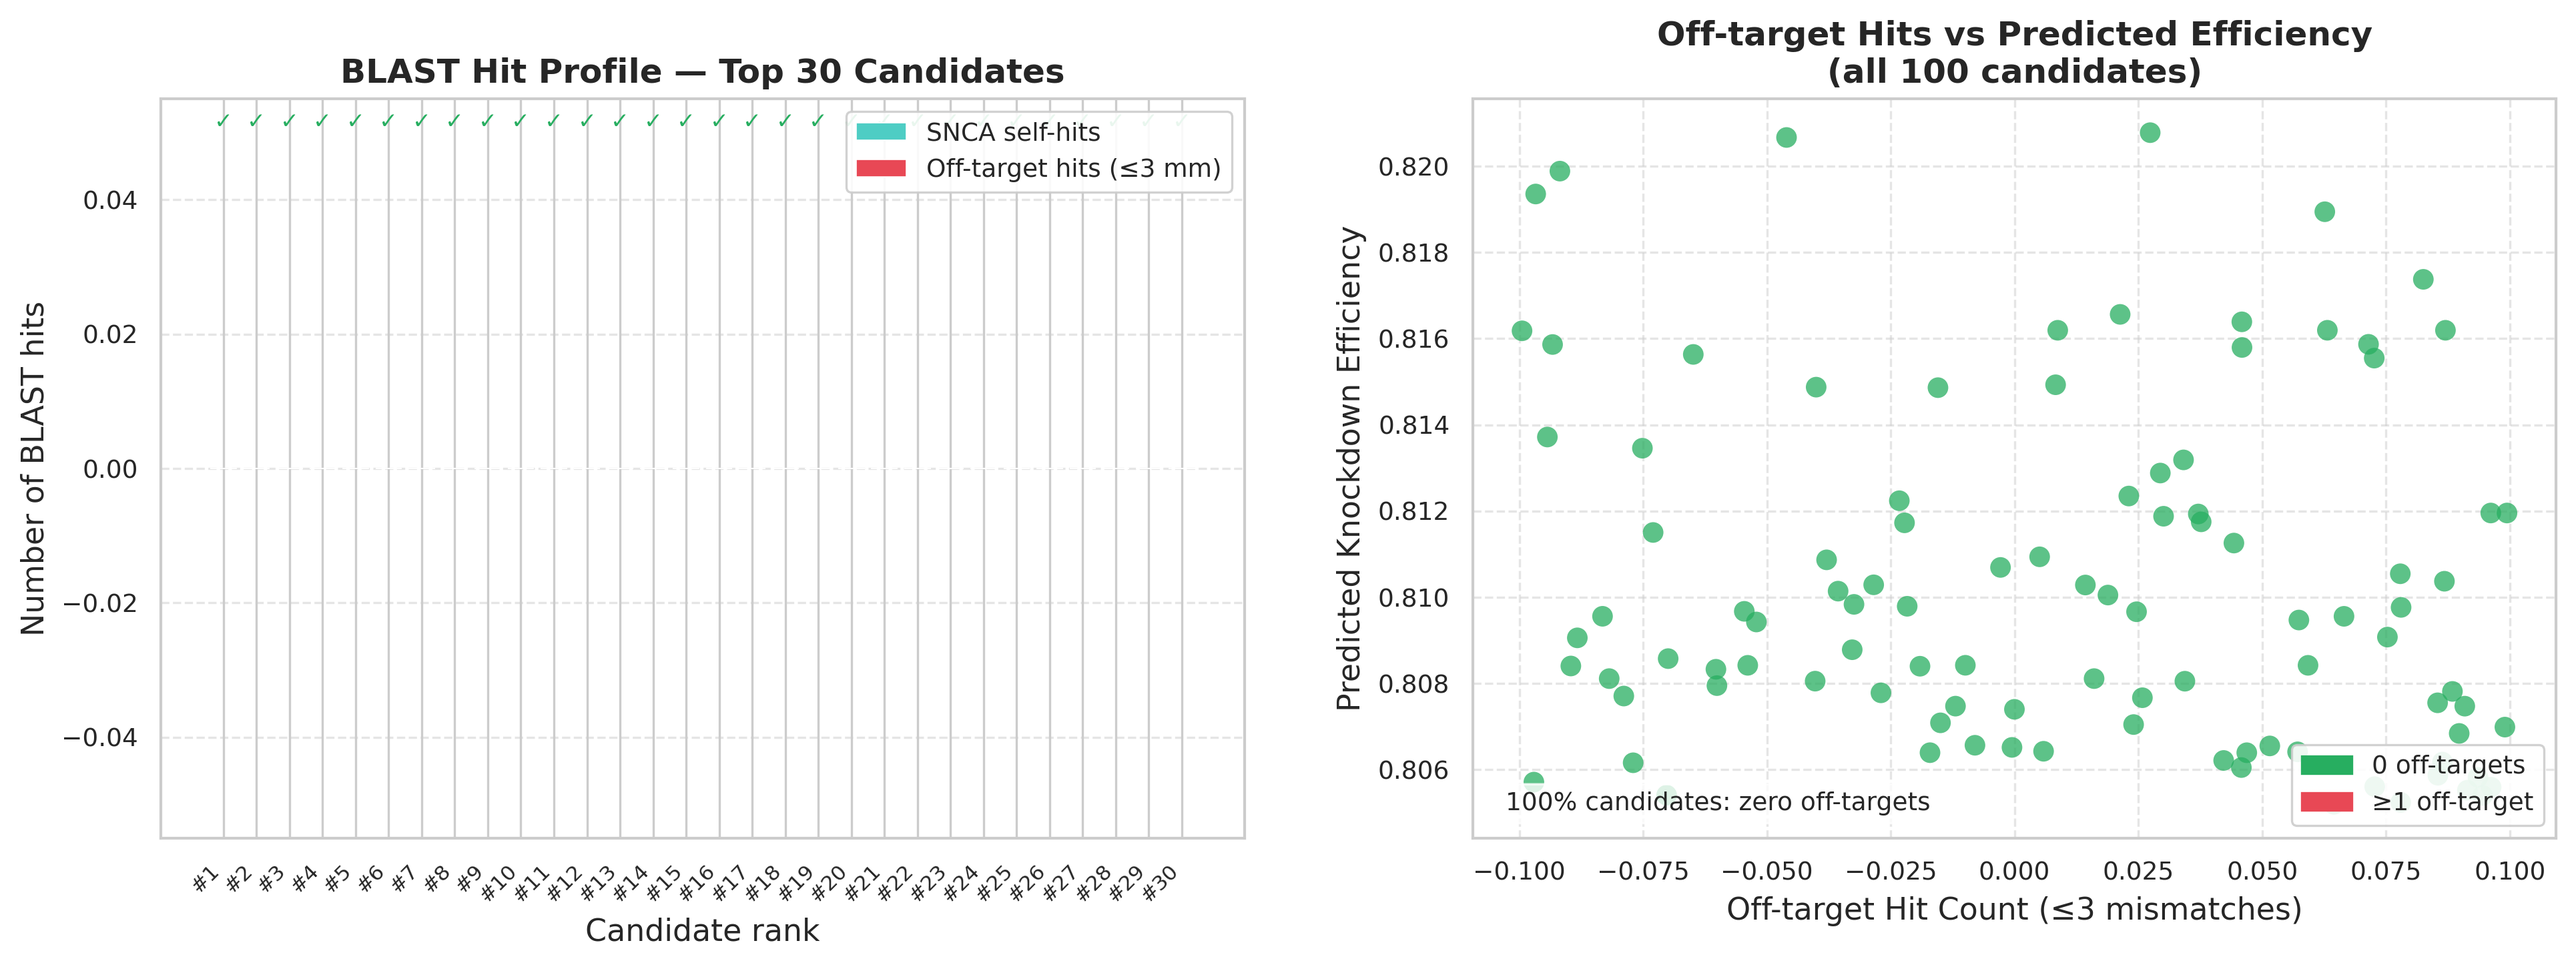
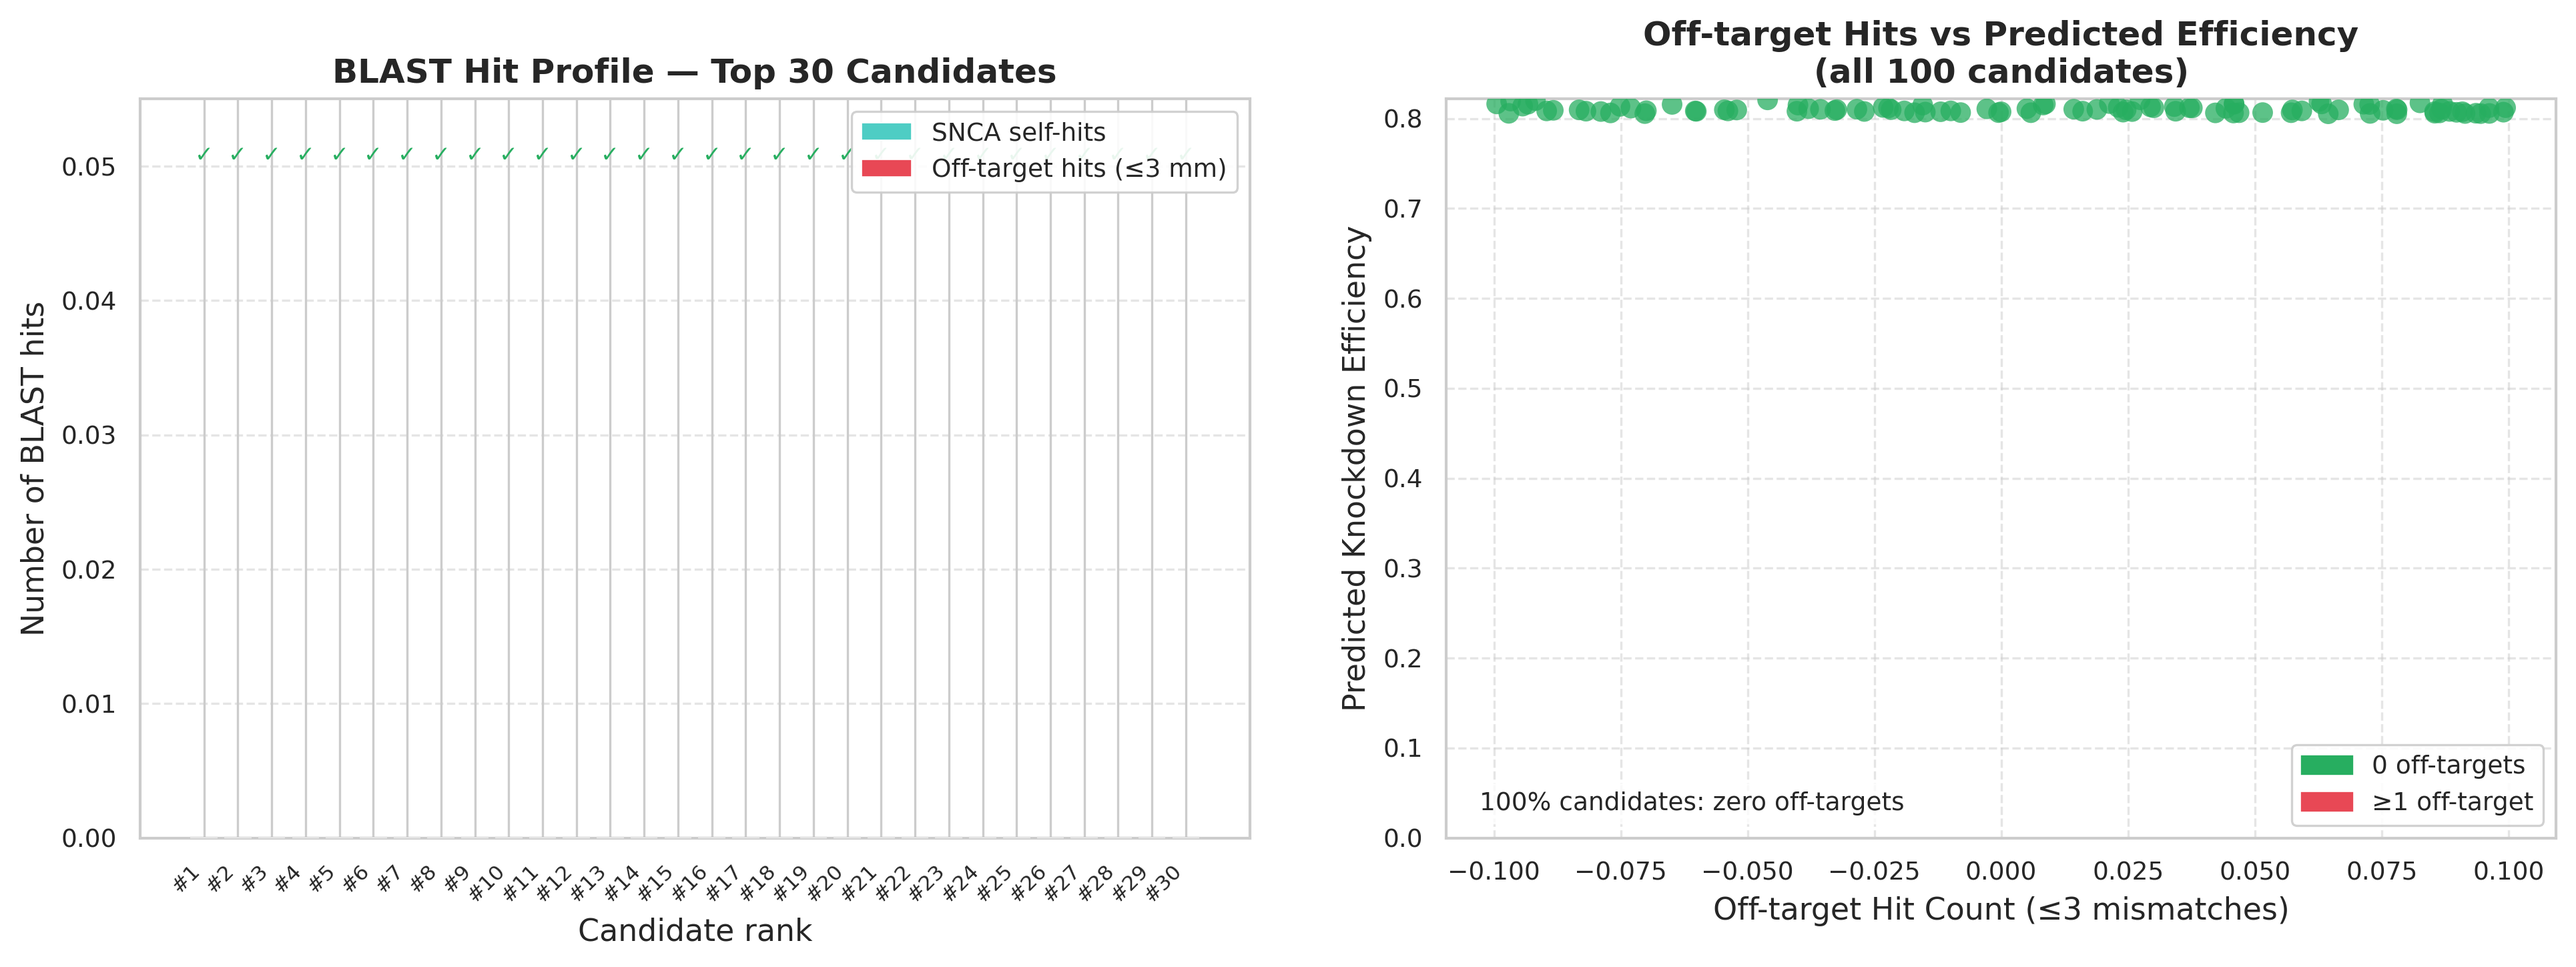
Clamp fig4 BLAST hit profile y-axes to start at 0
Bar heights were occasionally rendering as negative due to autoscaled
margins; force ylim bottom=0 on both fig4 subplots and take abs() of
hit counts before plotting so nothing can dip below zero.

diff --git a/scripts/06_statistics_viz.py b/scripts/06_statistics_viz.py
@@ -277,6 +277,8 @@ def fig_blast_hits(ranked: pd.DataFrame):
     off-target hits (≤3 mm), and 'clean' (no hits) per candidate."""
 
     df = ranked.head(30).copy()    # top 30 for readability
+    df["snca_self_hits"] = df["snca_self_hits"].abs()
+    df["offtarget_hits"] = df["offtarget_hits"].abs()
     df["total_hits_reported"] = df["snca_self_hits"] + df["offtarget_hits"]
 
     fig, axes = plt.subplots(1, 2, figsize=(13, 5))
@@ -290,6 +292,7 @@ def fig_blast_hits(ranked: pd.DataFrame):
                  bottom=df["snca_self_hits"],
                  color=ACCENT, label="Off-target hits (≤3 mm)",
                  edgecolor="white", linewidth=0.4, zorder=3)
+    ax.set_ylim(bottom=0)
 
     ax.set_xticks(x)
     ax.set_xticklabels([f"#{r}" for r in df["rank"]], fontsize=7.5, rotation=45, ha="right")
@@ -318,6 +321,7 @@ def fig_blast_hits(ranked: pd.DataFrame):
         ranked["predicted_efficiency"],
         c=colors_pt, s=55, alpha=0.75, edgecolors="none", zorder=3,
     )
+    ax2.set_ylim(bottom=0)
     ax2.set_xlabel("Off-target Hit Count (≤3 mismatches)")
     ax2.set_ylabel("Predicted Knockdown Efficiency")
     ax2.set_title("Off-target Hits vs Predicted Efficiency\n(all 100 candidates)",
